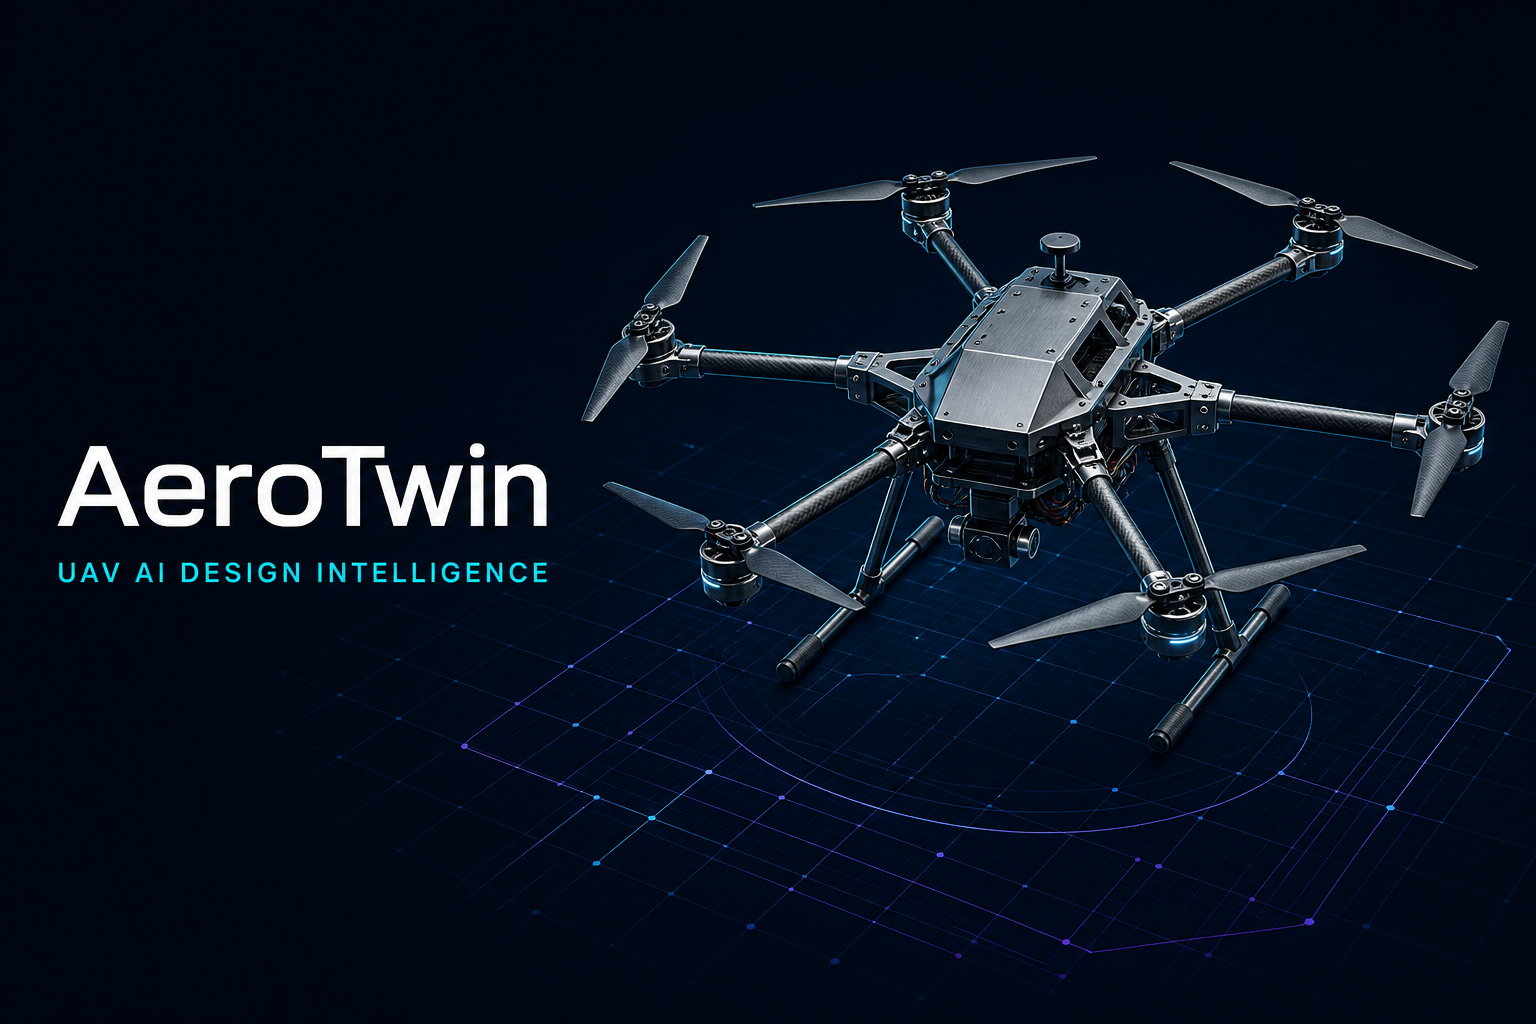
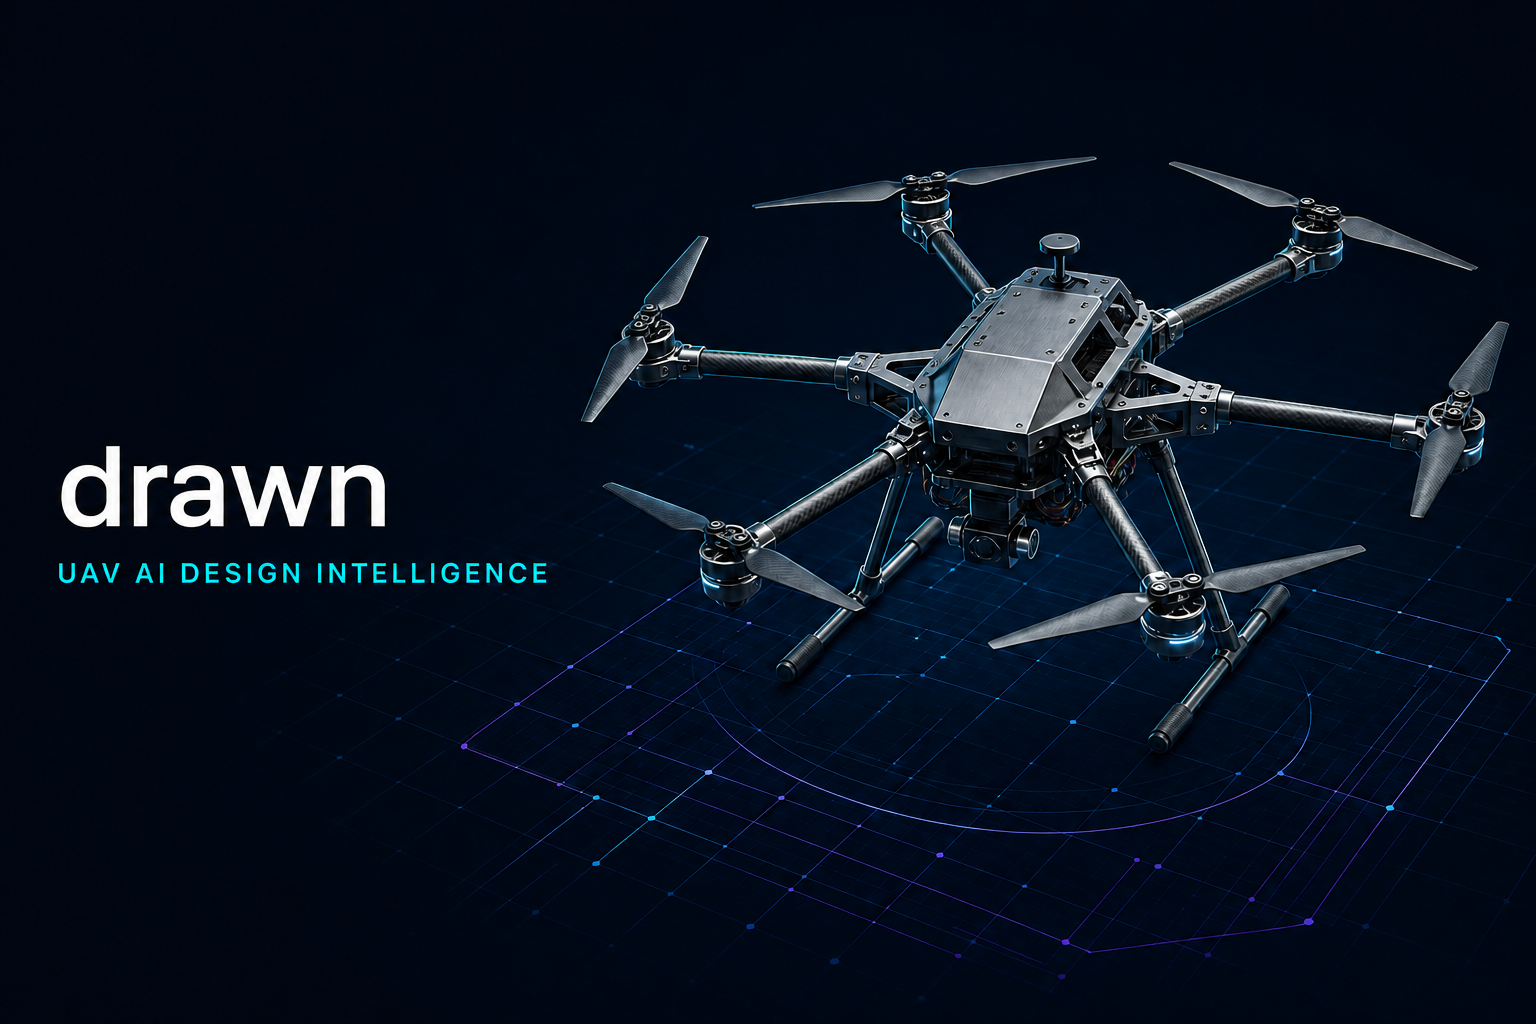
feat: rename application to drawn and preserve saved quotes

diff --git a/components/parts-quote-panel.tsx b/components/parts-quote-panel.tsx
@@ -8,11 +8,10 @@ import { createBomSnapshot, draftFingerprint } from '@/lib/parts/bom';
 import { calculateOfferAmounts } from '@/lib/parts/pricing';
 import { quoteToCsv } from '@/lib/parts/csv';
 import { productLink, searchPartQueue } from '@/lib/parts/client';
-import { restoreQuote } from '@/lib/parts/session';
-import type { DesignDraft } from '@/lib/aerotwin-types';
+import { loadStoredQuote, saveStoredQuote } from '@/lib/parts/session';
+import type { DesignDraft } from '@/lib/drawn-types';
 import type { BomSnapshot, PartKind, PartSearchResult, PartSpecs, ProductOffer, QuoteLine } from '@/lib/parts/types';
 
-const SESSION_KEY = 'aerotwin.parts-quote.v1';
 const KIND_LABELS: Record<PartKind, string> = { motor: '모터', propeller: '프로펠러', battery: '배터리', servo: '서보' };
 const STATUS_LABELS: Record<PartSearchResult['status'], string> = {
   ok: '검색 완료', not_found: '검색 범위에서 미발견', not_configured: '상품 조회 연결 준비 중',
@@ -62,8 +61,7 @@ export function PartsQuotePanel({ draft, disabled = false }: { draft: DesignDraf
     queueMicrotask(() => {
       if (!active) return;
       try {
-        const text = sessionStorage.getItem(SESSION_KEY);
-        const saved = text ? restoreQuote(text) : null;
+        const saved = loadStoredQuote(sessionStorage);
         if (saved) {
           setSnapshot(saved.snapshot);
           setLines(saved.lines);
@@ -76,7 +74,7 @@ export function PartsQuotePanel({ draft, disabled = false }: { draft: DesignDraf
 
   useEffect(() => {
     if (!ready || !snapshot) return;
-    try { sessionStorage.setItem(SESSION_KEY, JSON.stringify({ snapshot, lines })); } catch { /* Full or disabled storage. */ }
+    try { saveStoredQuote(sessionStorage, { snapshot, lines }); } catch { /* Access to browser storage can be disabled. */ }
   }, [ready, snapshot, lines]);
 
   const totals = useMemo(() => {
@@ -133,7 +131,7 @@ export function PartsQuotePanel({ draft, disabled = false }: { draft: DesignDraf
     const url = URL.createObjectURL(new Blob([quoteToCsv(snapshot, lines)], { type: 'text/csv;charset=utf-8;' }));
     const anchor = document.createElement('a');
     anchor.href = url;
-    anchor.download = `aerotwin-parts-${snapshot.designId}-${snapshot.createdAt.slice(0, 10)}.csv`;
+    anchor.download = `drawn-parts-${snapshot.designId}-${snapshot.createdAt.slice(0, 10)}.csv`;
     anchor.click();
     window.setTimeout(() => URL.revokeObjectURL(url), 1000);
   }

diff --git a/lib/parts/session.ts b/lib/parts/session.ts
@@ -1,6 +1,10 @@
 import { isPartSearchResult } from './client';
 import type { BomItem, BomSnapshot, PartKind, PartSpecs, QuoteLine } from './types';
 
+const SESSION_KEY = 'drawn.parts-quote.v1';
+const LEGACY_SESSION_KEY = 'aerotwin.parts-quote.v1';
+type StoredQuote = { snapshot: BomSnapshot; lines: QuoteLine[] };
+
 const kinds = new Set<PartKind>(['motor', 'propeller', 'battery', 'servo']);
 const specKeys = new Set<keyof PartSpecs>([
   'motorKv', 'diameterIn', 'pitchIn', 'cells', 'capacityMah', 'dischargeC', 'voltage',
@@ -57,7 +61,7 @@ function sameItem(left: BomItem, right: BomItem): boolean {
 }
 
 /** Restore one internally consistent v1 quote, or discard it as a whole. */
-export function restoreQuote(text: string): { snapshot: BomSnapshot; lines: QuoteLine[] } | null {
+export function restoreQuote(text: string): StoredQuote | null {
   if (text.length > 1_000_000) return null;
   let saved: unknown;
   try { saved = JSON.parse(text); } catch { return null; }
@@ -97,4 +101,26 @@ export function restoreQuote(text: string): { snapshot: BomSnapshot; lines: Quot
     },
     lines: items.map((item) => linesById.get(item.id)!),
   };
+}
+
+/** Prefer a valid current quote; older tabs can still recover their saved quote. */
+export function loadStoredQuote(storage: Pick<Storage, 'getItem'>): StoredQuote | null {
+  for (const key of [SESSION_KEY, LEGACY_SESSION_KEY]) {
+    try {
+      const text = storage.getItem(key);
+      const saved = text ? restoreQuote(text) : null;
+      if (saved) return saved;
+    } catch { /* A blocked key must not prevent legacy recovery. */ }
+  }
+  return null;
+}
+
+/** Leave the legacy copy intact, including when browser storage is full. */
+export function saveStoredQuote(storage: Pick<Storage, 'setItem'>, quote: StoredQuote): boolean {
+  try {
+    storage.setItem(SESSION_KEY, JSON.stringify(quote));
+    return true;
+  } catch {
+    return false;
+  }
 }

diff --git a/components/drawn-app.tsx b/components/drawn-app.tsx
@@ -23,7 +23,7 @@ import type {
   DesignSummary,
   ShowcaseMap,
   WorkspaceView,
-} from '@/lib/aerotwin-types';
+} from '@/lib/drawn-types';
 
 const navItems = [
   { id: 'explore' as const, step: 1, label: '설계 선택', short: '탐색', icon: Boxes },
@@ -33,7 +33,7 @@ const navItems = [
   { id: 'optimizer' as const, step: 5, label: '후보 탐색', short: '후보', icon: Sparkles },
 ];
 
-export function AeroTwinApp() {
+export function DrawnApp() {
   const [view, setView] = useState<WorkspaceView>('explore');
   const [dataset, setDataset] = useState<DatasetIndex | null>(null);
   const [showcases, setShowcases] = useState<ShowcaseMap>({});
@@ -126,7 +126,7 @@ export function AeroTwinApp() {
               <Hexagon className="size-4.5 text-white" />
             </div>
             <div>
-              <p className="text-sm font-semibold tracking-[-0.02em] text-[#172b3a]">AeroTwin</p>
+              <p className="text-sm font-semibold tracking-[-0.02em] text-[#172b3a]">drawn</p>
               <p className="hidden text-[10px] font-medium tracking-[0.08em] text-[#6b7d8b] sm:block">UAV 설계 워크벤치</p>
             </div>
           </button>

diff --git a/app/layout.tsx b/app/layout.tsx
@@ -13,29 +13,29 @@ const geistMono = Geist_Mono({
 });
 
 export const metadata: Metadata = {
-  title: 'AeroTwin · UAV AI Design Intelligence',
+  title: 'drawn · UAV AI Design Intelligence',
   description:
     'AircraftVerse 기반 UAV 성능 예측, 설계 비교 및 AI 최적화 플랫폼',
   openGraph: {
-    title: 'AeroTwin · UAV AI Design Intelligence',
+    title: 'drawn · UAV AI Design Intelligence',
     description:
       'UAV 설계 입력부터 성능 시뮬레이션, A/B 비교, 목적 기반 최적화까지.',
     type: 'website',
     images: [
       {
-        url: '/og.png',
+        url: '/og.png?v=drawn',
         width: 1536,
         height: 1024,
-        alt: 'AeroTwin UAV AI Design Intelligence',
+        alt: 'drawn UAV AI Design Intelligence',
       },
     ],
   },
   twitter: {
     card: 'summary_large_image',
-    title: 'AeroTwin · UAV AI Design Intelligence',
+    title: 'drawn · UAV AI Design Intelligence',
     description:
       'AircraftVerse 기반 UAV 성능 예측·설계 비교·AI 최적화 플랫폼',
-    images: ['/og.png'],
+    images: ['/og.png?v=drawn'],
   },
 };
 

diff --git a/components/views/design-lab-view.tsx b/components/views/design-lab-view.tsx
@@ -42,8 +42,8 @@ import type {
   ParameterGroup,
   ShowcaseDesign,
   WingParameters,
-} from '@/lib/aerotwin-types';
-import { formatComponent, formatMetric, isAvailableMetric, percentChange } from '@/lib/aerotwin-types';
+} from '@/lib/drawn-types';
+import { formatComponent, formatMetric, isAvailableMetric, percentChange } from '@/lib/drawn-types';
 import { DataDisclaimer, DesignSelector, SectionHeading, SourceBadge } from '@/components/views/shared';
 
 type DraftEstimate = {

diff --git a/components/views/simulator-view.tsx b/components/views/simulator-view.tsx
@@ -30,8 +30,8 @@ import {
   type ChartConfig,
 } from '@/components/ui/chart';
 import { Slider } from '@/components/ui/slider';
-import type { ShowcaseDesign } from '@/lib/aerotwin-types';
-import { formatHub, formatMetric } from '@/lib/aerotwin-types';
+import type { ShowcaseDesign } from '@/lib/drawn-types';
+import { formatHub, formatMetric } from '@/lib/drawn-types';
 import {
   DataDisclaimer,
   DesignSelector,

diff --git a/components/views/optimizer-view.tsx b/components/views/optimizer-view.tsx
@@ -38,14 +38,14 @@ import { Progress } from '@/components/ui/progress';
 import type {
   DatasetIndex,
   DesignSummary,
-} from '@/lib/aerotwin-types';
+} from '@/lib/drawn-types';
 import {
   formatDistance,
   formatHub,
   formatMetric,
   isAvailableMetric,
   percentChange,
-} from '@/lib/aerotwin-types';
+} from '@/lib/drawn-types';
 import {
   DataDisclaimer,
   SectionHeading,

diff --git a/components/views/explorer-view.tsx b/components/views/explorer-view.tsx
@@ -28,8 +28,8 @@ import type {
   DatasetIndex,
   DesignSummary,
   ShowcaseMap,
-} from '@/lib/aerotwin-types';
-import { formatDistance, formatHub, formatMetric } from '@/lib/aerotwin-types';
+} from '@/lib/drawn-types';
+import { formatDistance, formatHub, formatMetric } from '@/lib/drawn-types';
 import {
   ConfigurationList,
   DataDisclaimer,

diff --git a/components/views/compare-view.tsx b/components/views/compare-view.tsx
@@ -32,13 +32,13 @@ import type {
   DesignSummary,
   ShowcaseMap,
   TrimRow,
-} from '@/lib/aerotwin-types';
+} from '@/lib/drawn-types';
 import {
   formatHub,
   formatMetric,
   isAvailableMetric,
   percentChange,
-} from '@/lib/aerotwin-types';
+} from '@/lib/drawn-types';
 import {
   DataDisclaimer,
   DesignSelector,

diff --git a/lib/parts/bom.ts b/lib/parts/bom.ts
@@ -1,4 +1,4 @@
-import type { DesignDraft, PhysicalComponent } from '../aerotwin-types';
+import type { DesignDraft, PhysicalComponent } from '../drawn-types';
 import type { BomItem, BomSnapshot, PartKind, PartSpecs } from './types';
 
 const kinds: PartKind[] = ['motor', 'propeller', 'battery', 'servo'];

diff --git a/components/views/shared.tsx b/components/views/shared.tsx
@@ -17,7 +17,7 @@ import {
   formatComponent,
   formatHub,
   type ShowcaseDesign,
-} from '@/lib/aerotwin-types';
+} from '@/lib/drawn-types';
 
 type DataSource = 'DATASET' | 'INTERPOLATED' | 'DEMO ESTIMATE' | 'DATASET RANKING';
 

diff --git a/app/page.tsx b/app/page.tsx
@@ -1,5 +1,5 @@
-import { AeroTwinApp } from '@/components/aerotwin-app';
+import { DrawnApp } from '@/components/drawn-app';
 
 export default function Home() {
-  return <AeroTwinApp />;
+  return <DrawnApp />;
 }
